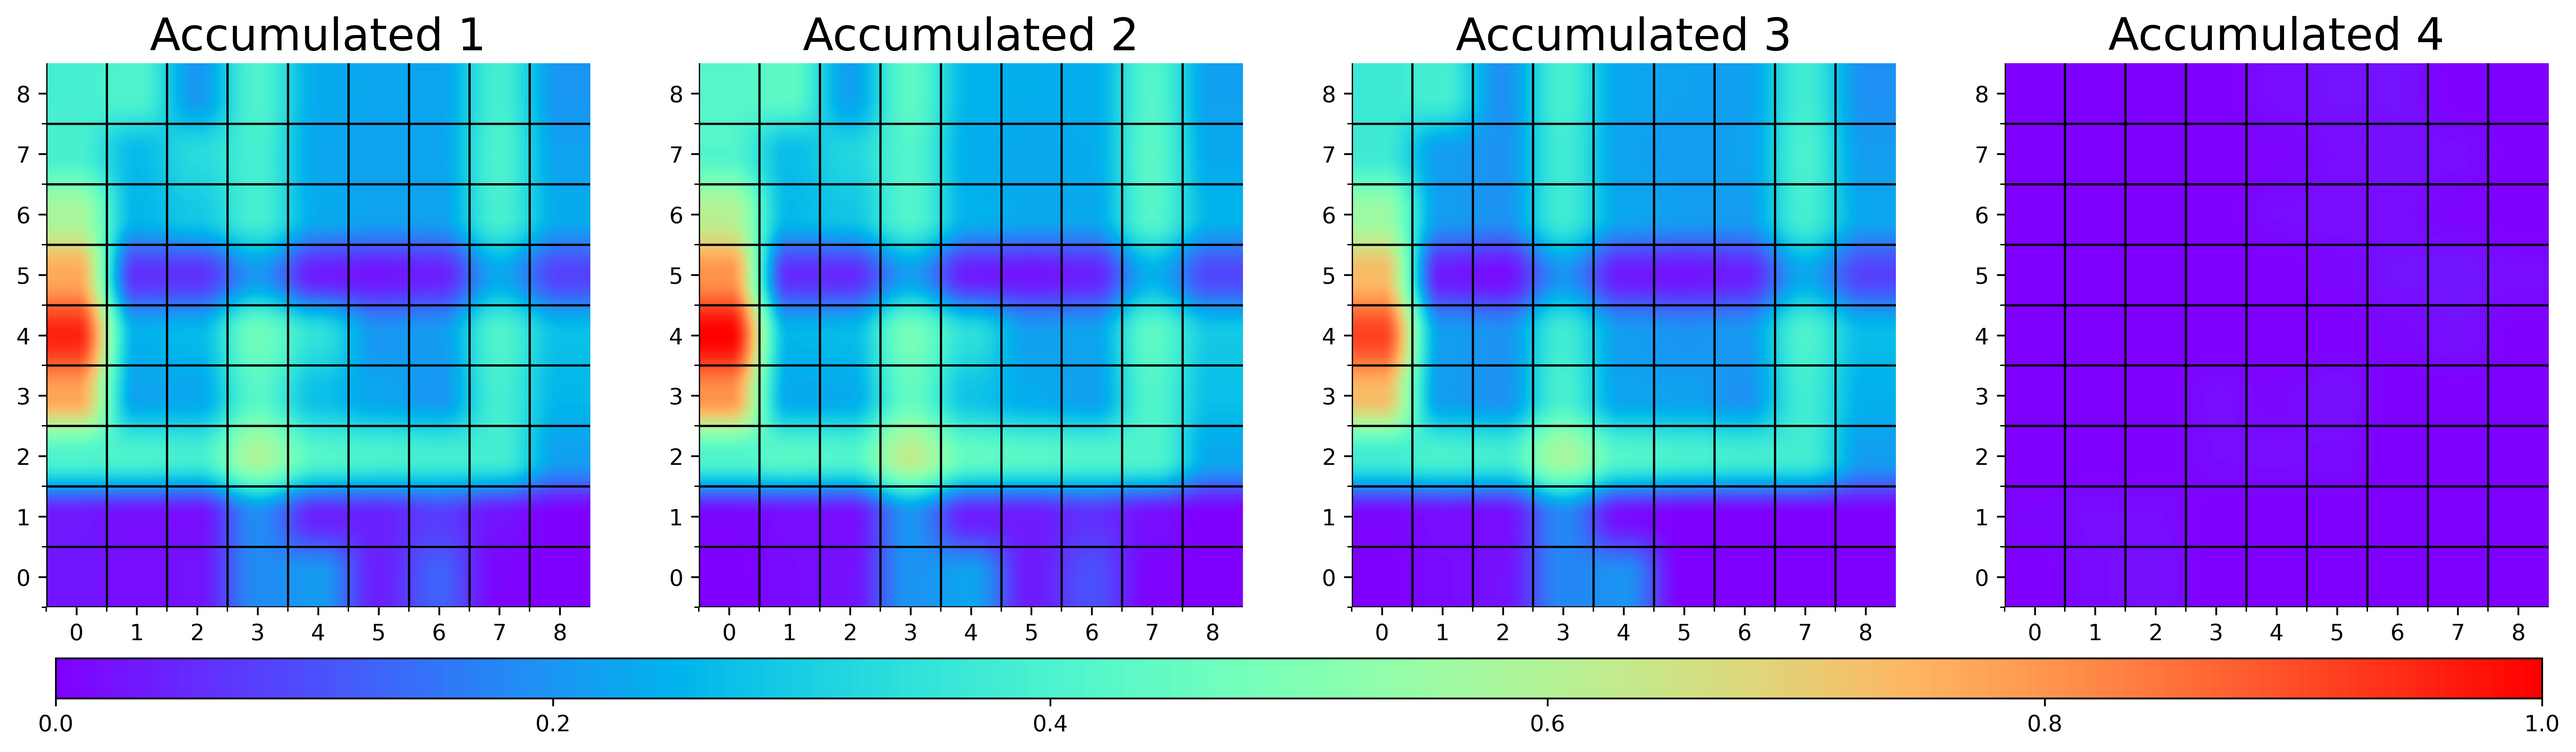
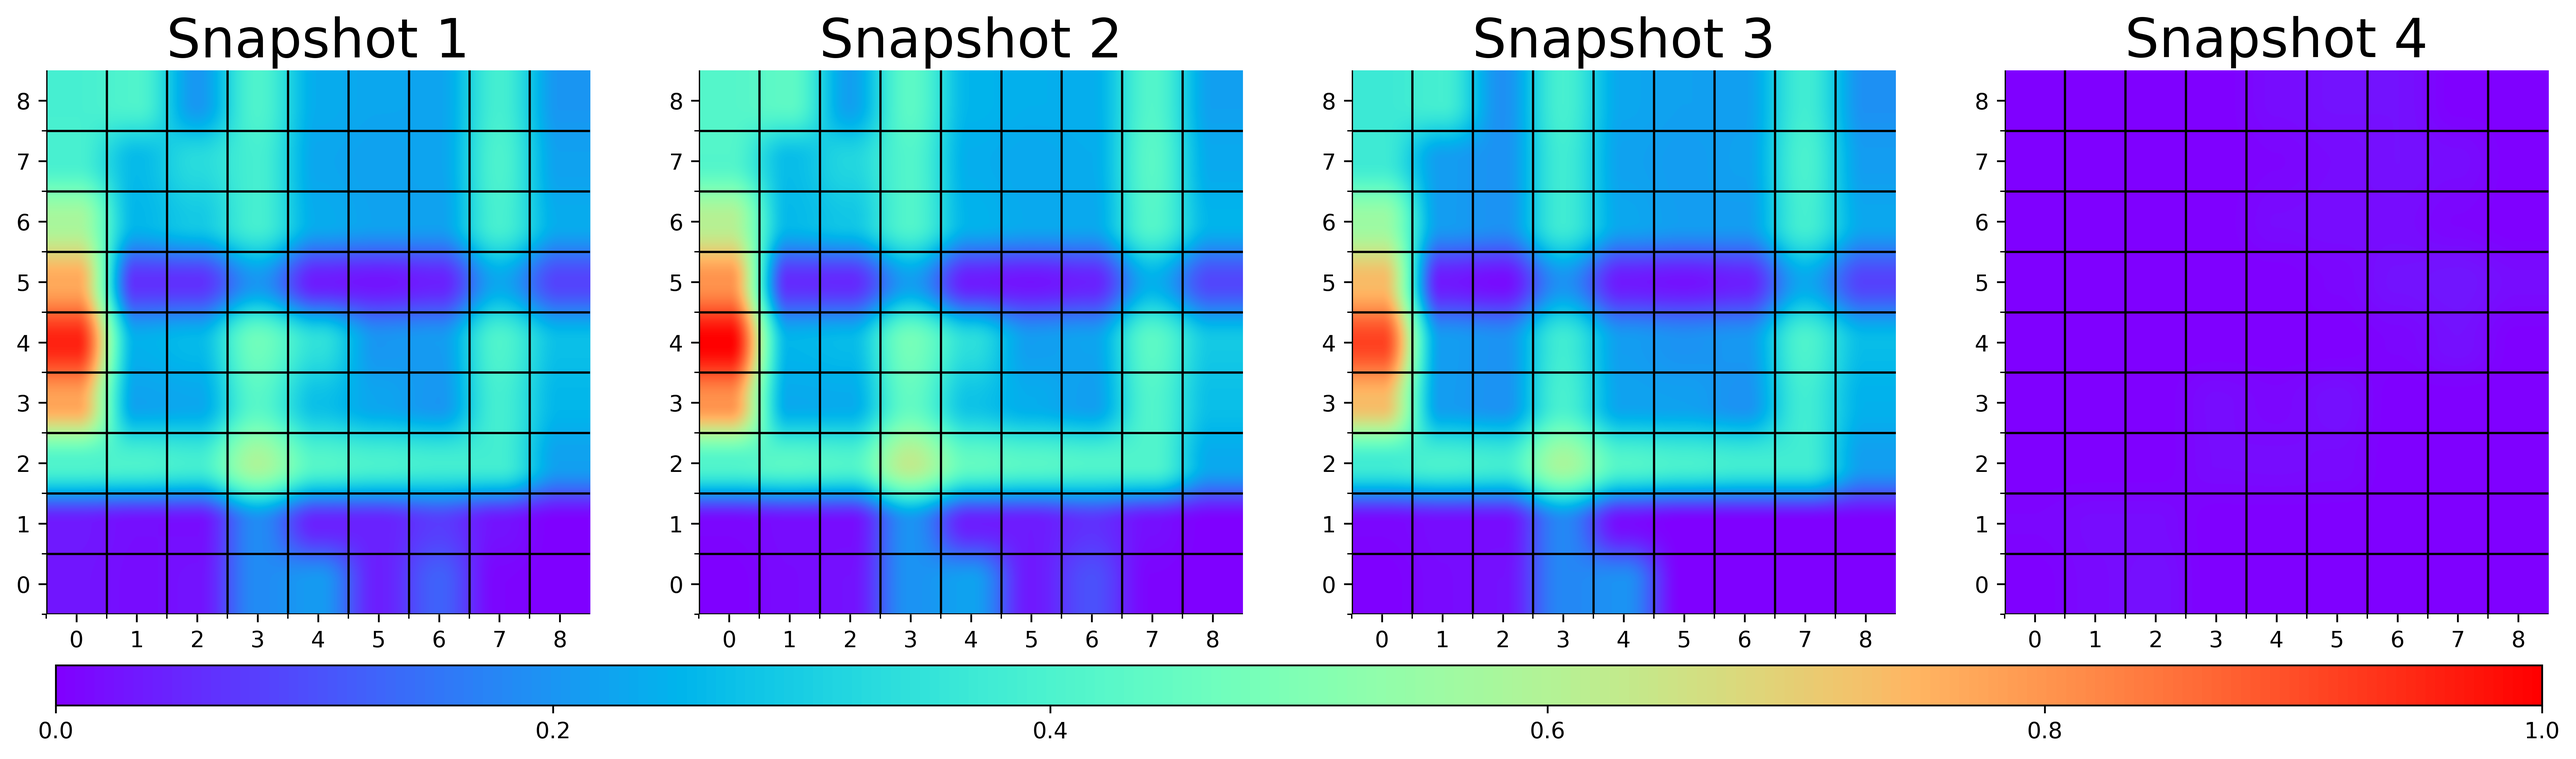
figure updt

diff --git a/scripts/generateFlowGraph.py b/scripts/generateFlowGraph.py
@@ -116,7 +116,7 @@ def generateImage(MyGraphs, maximumTraffic, figName):
                 #print(MyGraphs[graph])
                 extent = (0, DIM_X, 0, DIM_Y)
                 pos = axes[graph_c].imshow(MyGraphs[graph_c], interpolation='hanning', cmap='rainbow', origin='lower', extent=extent, vmax=1.0, vmin=0)# see https://matplotlib.org/examples/color/colormaps_reference.html for more cmaps
-                axes[graph_c].set_title("Accumulated "+str(graph_c+1), fontsize=20)
+                axes[graph_c].set_title("Snapshot "+str(graph_c+1), fontsize=24)
                 axes[graph_c].set_xticks(np.arange(0.5, DIM_X+.5, 1))
                 axes[graph_c].set_yticks(np.arange(0.5, DIM_Y+.5, 1))
                 axes[graph_c].set_xticklabels(np.arange(0, DIM_X, 1))
